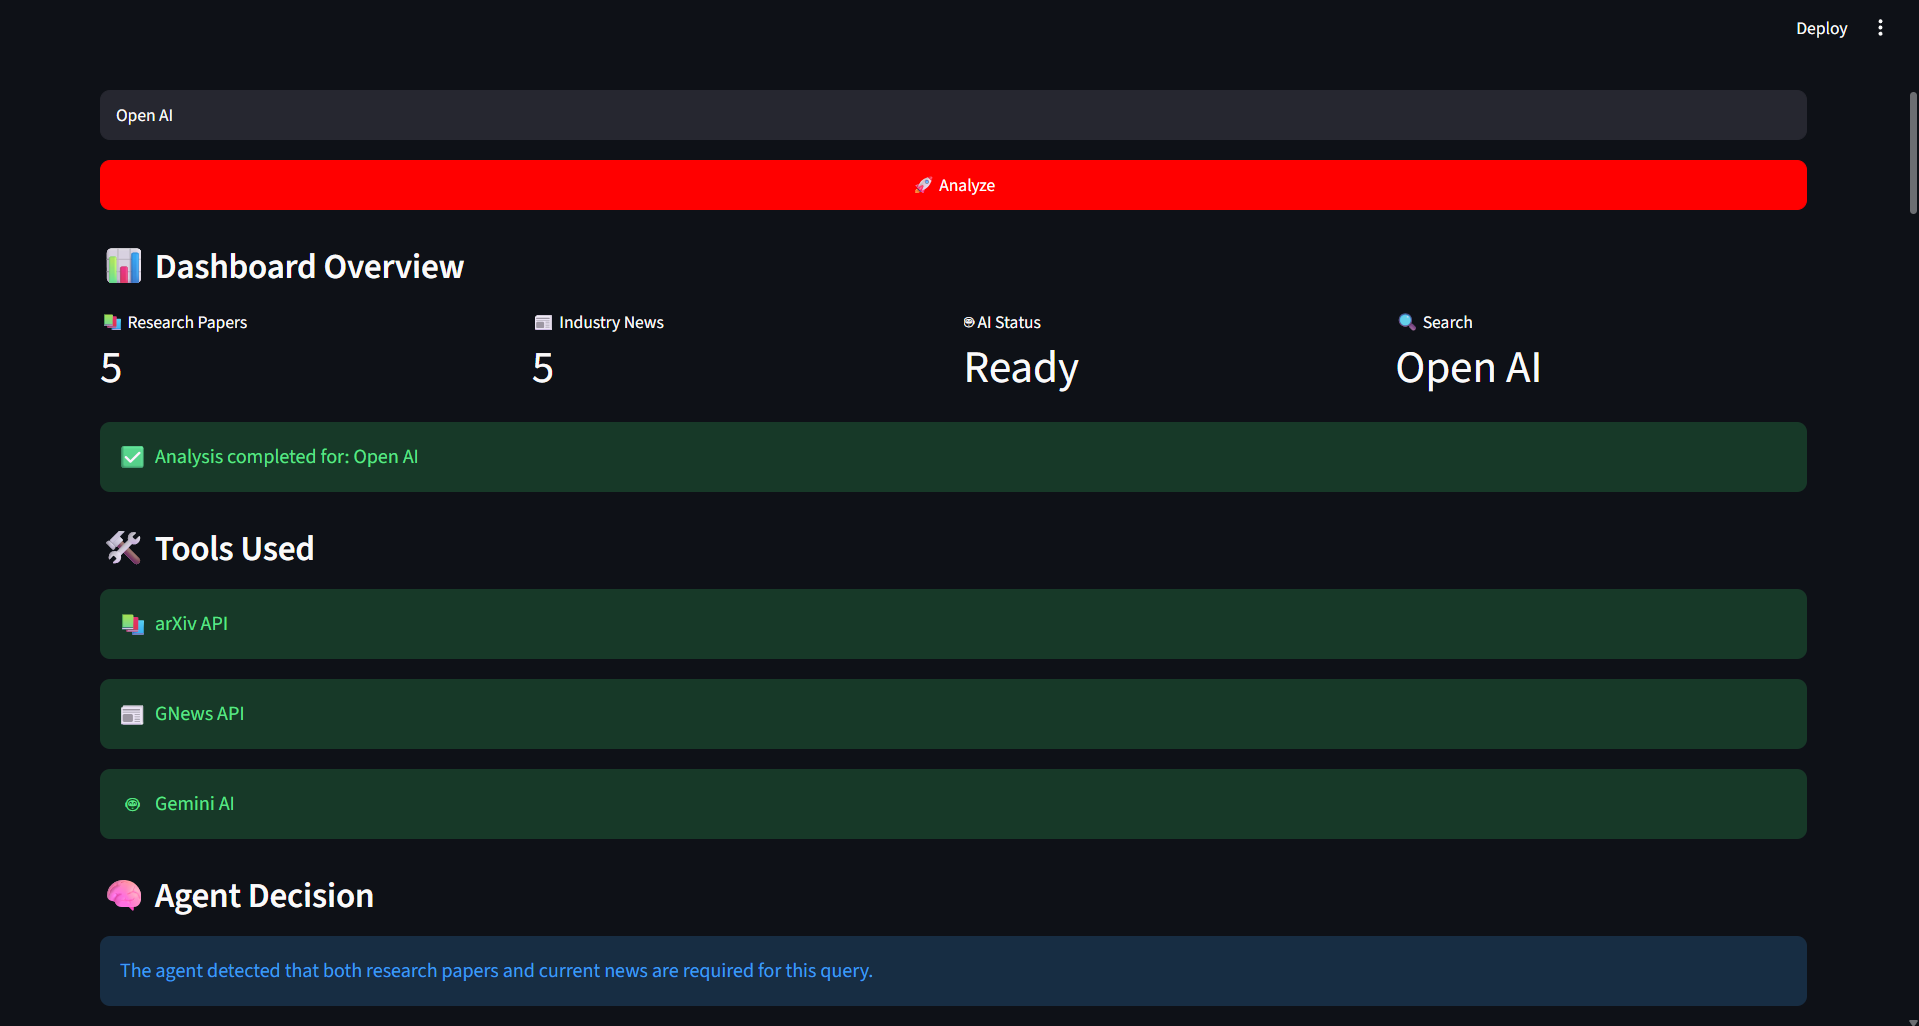
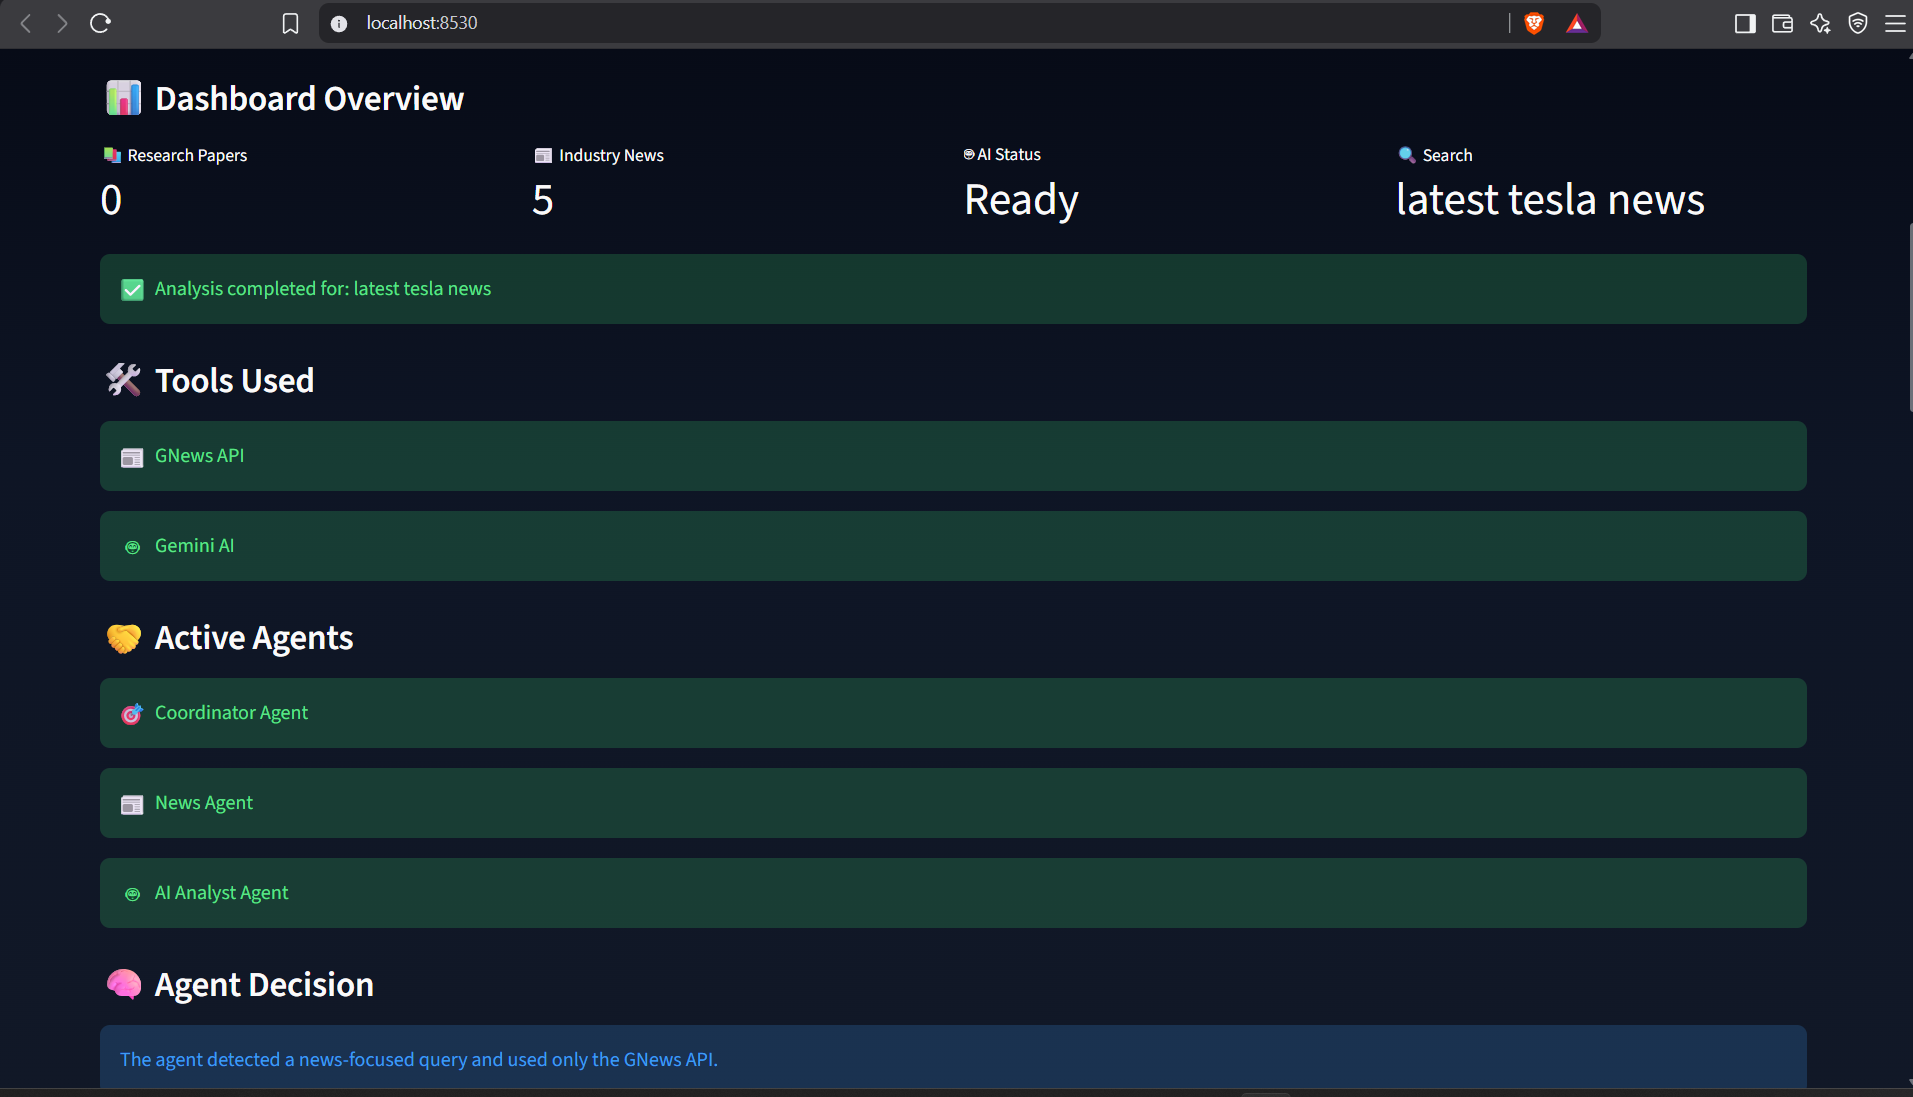
Completed UI improvements and multi-agent architecture

diff --git a/app.py b/app.py
@@ -12,45 +12,301 @@ st.set_page_config(
     page_icon="🔍",
     layout="wide"
 )
+st.markdown("""
+<style>
+
+/* Hide Streamlit Header */
+
+header{
+    visibility:hidden;
+}
+
+footer{
+    visibility:hidden;
+}
+
+/* Main Background */
+
+.stApp{
+    background: linear-gradient(
+        180deg,
+        #070B17 0%,
+        #0E1525 40%,
+        #111827 100%
+    );
+}
+
+/* Hero Card */
+
+.hero{
+
+padding:40px;
+
+border-radius:25px;
+
+background:linear-gradient(
+135deg,
+rgba(71,85,255,.30),
+rgba(0,212,255,.15)
+);
+
+backdrop-filter:blur(20px);
+
+border:1px solid rgba(255,255,255,.15);
+
+margin-bottom:25px;
+
+box-shadow:
+0 0 30px rgba(0,255,255,.15);
+
+}
+
+/* Hero Title */
+
+.hero h1{
+
+font-size:58px;
+
+color:white;
+
+margin-bottom:5px;
+
+}
+
+/* Hero Subtitle */
+
+.hero p{
+
+font-size:20px;
+
+color:#cbd5e1;
+
+}
+
+/* Search Card */
+
+.search-card{
+
+padding:25px;
+
+border-radius:20px;
+
+background:rgba(255,255,255,.05);
+
+border:1px solid rgba(255,255,255,.10);
+
+backdrop-filter:blur(15px);
+
+}
+
+/* Metric Cards */
+
+.metric-card{
+
+padding:20px;
+
+border-radius:18px;
+
+background:rgba(255,255,255,.04);
+
+border:1px solid rgba(255,255,255,.08);
+
+text-align:center;
+
+transition:.3s;
+
+}
+
+.metric-card:hover{
+
+transform:translateY(-6px);
+
+box-shadow:0 0 18px #4f46e5;
+
+}
+
+/* Section Title */
+
+.section-title{
+
+font-size:30px;
+
+font-weight:bold;
+
+color:white;
+
+margin-top:20px;
+
+margin-bottom:10px;
+
+}
+
+/* Buttons */
+
+.stButton > button{
+
+height:58px;
+
+font-size:22px;
+
+font-weight:bold;
+
+border-radius:16px;
+
+background:linear-gradient(
+90deg,
+#4F46E5,
+#06B6D4
+);
+
+border:none;
+
+color:white;
+
+transition:.35s;
+
+}
+
+.stButton > button:hover{
+
+transform:translateY(-3px);
+
+box-shadow:
+0 0 25px #06B6D4;
+
+}
+
+background:linear-gradient(
+90deg,
+#6366F1,
+#8B5CF6
+);
+
+color:white;
+
+font-size:18px;
+
+border-radius:14px;
+
+height:55px;
+
+border:none;
+
+transition:.3s;
+
+}
+
+.stButton>button:hover{
+
+box-shadow:0 0 25px #6366F1;
+
+transform:scale(1.02);
+
+}
+
+/* Text Input */
+
+.stTextInput > div > div > input{
+
+background:#0F172A;
+
+border:2px solid #4F46E5;
+
+color:white;
+
+font-size:20px;
+
+padding:16px;
+
+border-radius:16px;
+
+transition:.3s;
+
+}
+
+.stTextInput > div > div > input:focus{
+
+border:2px solid #00E5FF;
+
+box-shadow:0 0 25px rgba(0,229,255,.45);
+
+}
+
+background:#1E293B;
+
+color:white;
+
+border-radius:12px;
+
+border:1px solid #4F46E5;
+
+font-size:18px;
+
+}
+
+</style>
+""",unsafe_allow_html=True)
 
 # -------------------------------
 # Header
 # -------------------------------
-st.title("🔍 PulseAI")
-
-st.caption("Autonomous Research & Competitor Intelligence Dashboard")
-
 st.markdown("""
-### Stay ahead with AI-powered research and competitor intelligence.
+<div class="hero">
 
-Search any company, startup, or technology to instantly receive:
+<h1>🚀 PulseAI</h1>
 
-- 📚 Latest Research Papers
-- 📰 Industry News
-- 🤖 AI Executive Summary
-- 📈 Research Trends
-- 🏢 Competitor Insights
-""")
+<p>
+Autonomous Research & Competitor Intelligence Platform
+</p>
 
-st.divider()
+<p style="margin-top:20px;font-size:18px;color:#d1d5db;">
+Discover research papers, industry news, competitor insights and AI-powered executive summaries in one intelligent dashboard.
+</p>
+
+</div>
+""", unsafe_allow_html=True)
 
 # -------------------------------
 # Search Section
 # -------------------------------
-with st.container(border=True):
+# -------------------------------
+# Search Section
+# -------------------------------
 
-     st.info("💡 Search any company, startup, competitor, or technology.")
+st.markdown("""
+<div class="search-card">
 
-keyword = st.text_input(
-    "",
-    placeholder="🔍 Search Tesla, OpenAI, Quantum Computing..."
-)
+<h2 style="color:white;margin-bottom:10px;">
+⚡ AI Search Console
+</h2>
 
-analyze = st.button(
-    "🚀 Analyze",
-    type="primary",
-    use_container_width=True
-)
+<p style="color:#94a3b8;">
+Search any company, startup, technology or competitor.
+PulseAI automatically decides which AI agents and APIs should execute.
+</p>
+
+</div>
+""", unsafe_allow_html=True)
+
+left, right = st.columns([6,1])
+
+with left:
+
+    keyword = st.text_input(
+        "",
+        placeholder="🔍 Example: Tesla, OpenAI, Nvidia, Quantum Computing..."
+    )
+
+with right:
+
+    st.write("")
+    st.write("")
+
+    analyze = st.button(
+        "🚀",
+        use_container_width=True,
+        type="primary"
+    )
 
 if analyze:
     if keyword.strip() == "":

diff --git a/README.md b/README.md
@@ -214,9 +214,6 @@ Enter a company or technology keyword and click **Analyze** to generate AI-power
 
 ![Home Page](screenshots/home.png)
 
-## Analysis Results
-
-![Analysis Results](screenshots/results.png)
 
 ## Api Dashboard
 
